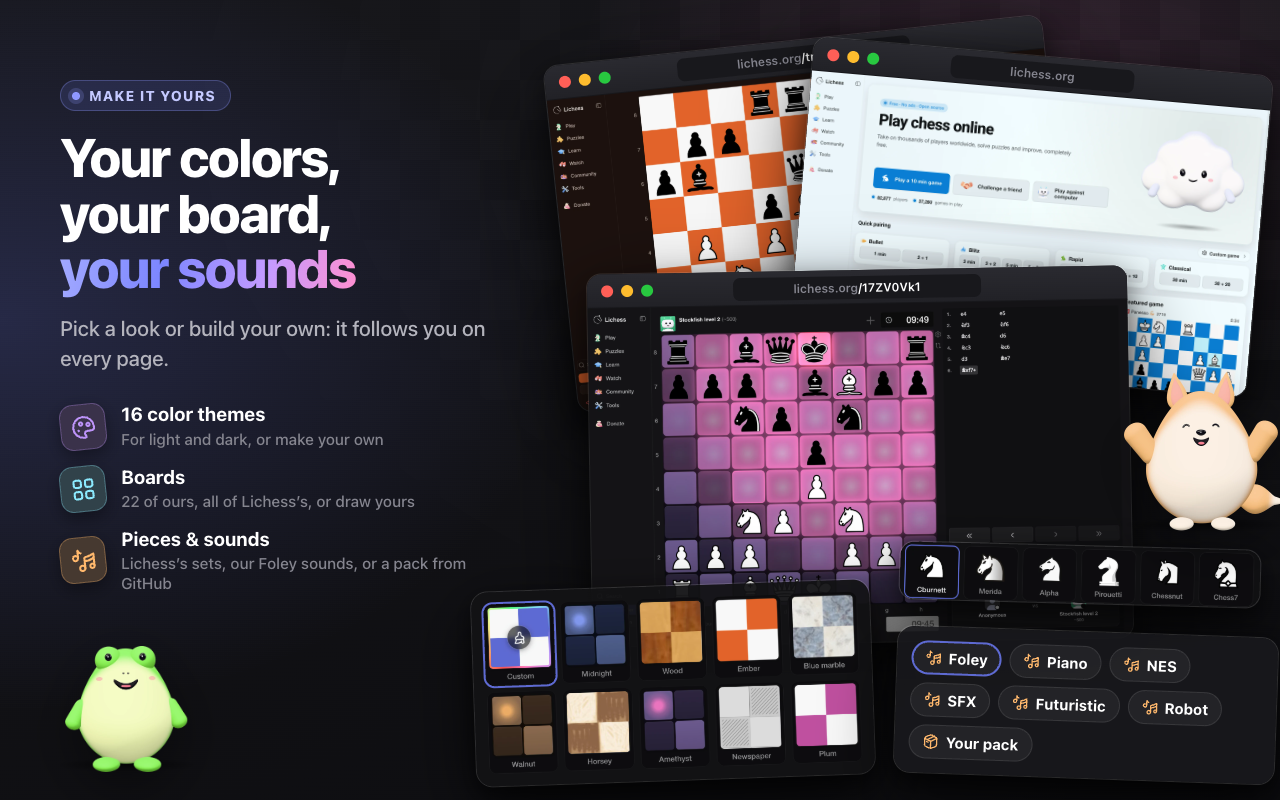
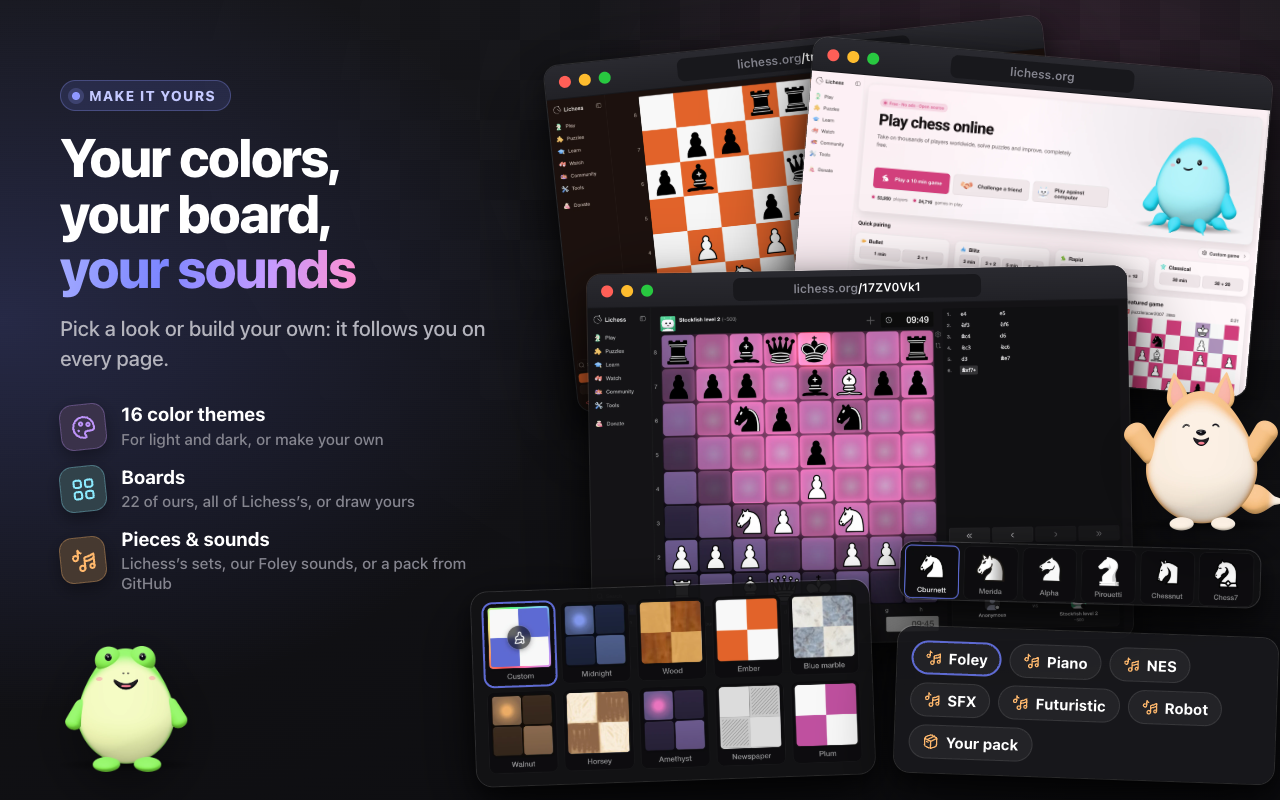
Show the light Blossom theme and the octopus on the looks store image

diff --git a/store/templates/4-looks.html b/store/templates/4-looks.html
@@ -36,7 +36,7 @@
     transform: rotate(-6deg);
   }
 
-  .ocean {
+  .blossom {
     top: 56px;
     left: 800px;
     width: 460px;
@@ -152,10 +152,10 @@
   <img lang="en" src="shots/theme-puzzle-ember-en.webp">
   <img lang="fr" src="shots/theme-puzzle-ember-fr.webp">
 </div>
-<div class="window ocean">
+<div class="window blossom">
   <p><span>lichess.org</span></p>
-  <img lang="en" src="shots/theme-home-ocean-en.webp">
-  <img lang="fr" src="shots/theme-home-ocean-fr.webp">
+  <img lang="en" src="shots/theme-home-blossom-en.webp">
+  <img lang="fr" src="shots/theme-home-blossom-fr.webp">
 </div>
 <div class="window backlit">
   <p><span>lichess.org<b lang="en">/17ZV0Vk1</b><b lang="fr">/C3jhe2tN</b></span></p>
